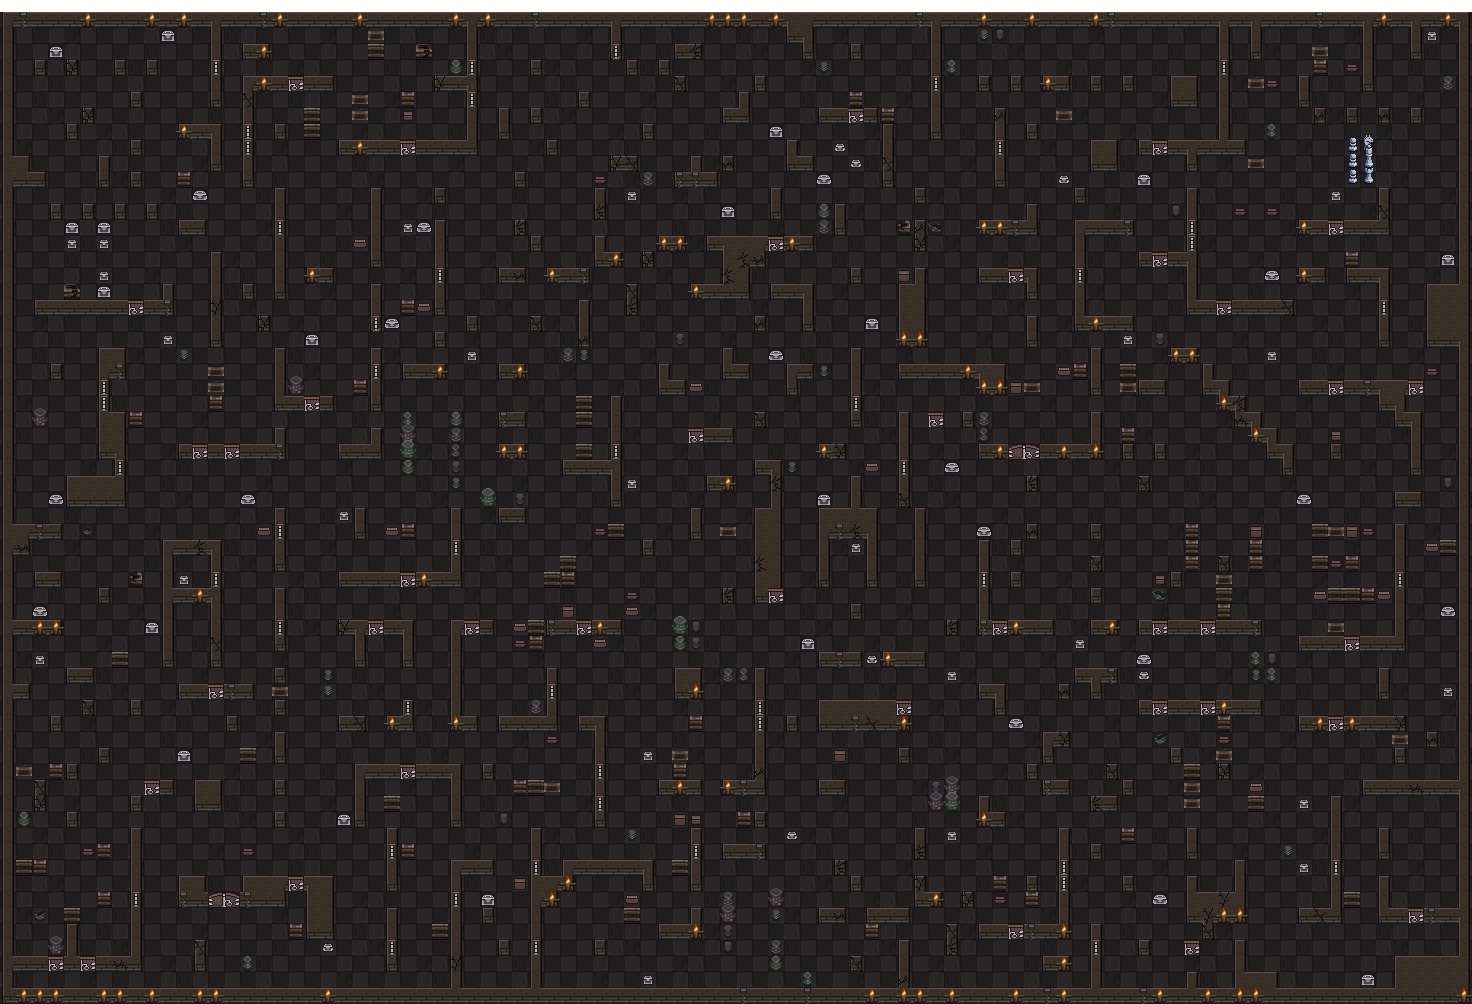
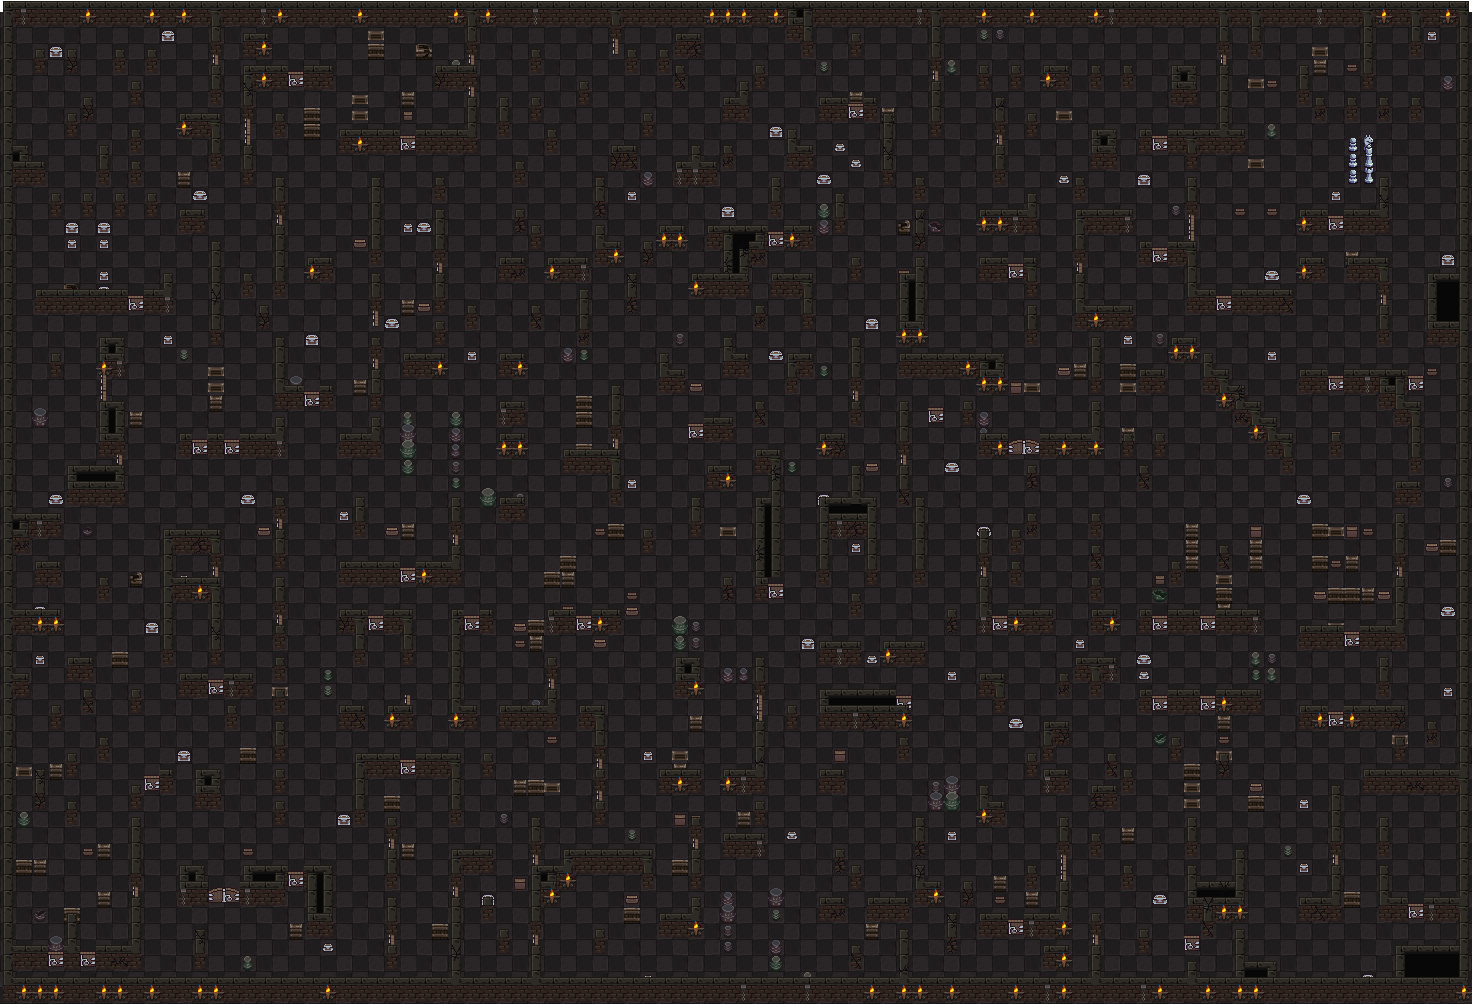
Tall walls, second round: masses fade to black, the edge-on leaf one tile again
The designer on the first build's walk screen: "Roofs on clusters of
walls look kinda odd. Either we should make it fade to black, or
smooth it out. Also, vertical doors look weird in several ways. They
look like they connect all the way at the top of the wall, unlike the
forward facing doors. And it looks super weird when you break the
lower door of a double door set, there's no visible side edge of the
door like you'd expect."

A MASS FADES TO BLACK. The first build's roofOf drew every cell by the
same profiles, so a thick wall tiled the band and the rungs over every
interior cell. The pack never draws a thick wall's top: its frame is a
bevelled rim around a black void, and that is what a mass is now.
roofOf takes `mass` (the cell has a diagonal set, so it sits in a 2x2
block) and, for a pixel thick both ways, lays the nearest rim by depth
from the open edge: the far edge the band's seven rows; the near edge
over the face the band and its row of fill (a thin wall's roof
exactly); the west and east edges a thin vertical band exactly, ten
columns, lit down the west side as the thin band is - so a thin wall
joining a mass runs into its rim without a seam; the side rims cast on
the roof minus the rows the face hides, so a rim runs up to a face
stub's top at an inner corner; a lone band entering from the north
runs its rungs over the far rim to the void, one leaving south starts
from the void; inside, the pack's two rows of shade under the far rim
[…]

diff --git a/play/README.md b/play/README.md
@@ -2172,7 +2172,7 @@ pixels and build it".
 THE BUILD. `js/board-ui.mjs` carries the geometry: `WALL_BAND` (columns
 3–12), `WALL_LIFT` 8 (the roof plane, one tile deep, shifted north),
 `WALL_RAISE` 3 (the face off its seam), `WALL_SPRITE_H` 24, `DOOR_LIFT`
-5 (a face-on leaf two pixels above the face's foot), `EDGE_LEAF_H` 27,
+5 (a leaf, face-on or edge-on, two pixels above the face's foot),
 `wallBody(mask)` (the shipped blob footprint of round 5: an east–west run
 the width, a north–south run the band, corners, T's and crosses their
 union, a thick block's inner corner only with its diagonal) and
@@ -2199,9 +2199,9 @@ cracks and takes its walls and ruins from the crypt row, so they
 regenerate without the pack. The doorway post tiles (`doorway`,
 `doorway-8`, `doorway-2`) are gone: an opened doorway is a gap and the
 walls beside it end with their own cases (`#gapUp` is any doorway).
-`door-edge` is a 16×32 box: the designer's 5×16 leaf stretched to 27
-rows by repeating its board period (`inhouse.mjs edgeLeafRows` — its head
-and foot as drawn), standing on the box's bottom edge.
+`door-edge` is the designer's 5×16 leaf as drawn, one tile tall, in the
+band's middle (`inhouse.mjs profileDoor`; the first build stretched it
+to 27 rows — the second round, below, put it back).
 
 THE CANVAS BOARD paints walls, cracked walls, weak spots and ruins in
 THE TALL PASS, at the square's y − 11 — the roof over the feet of
@@ -2211,21 +2211,80 @@ where a band runs on (the crack is the tell that a wall is weakened; a
 band mid-run has no face), the cracking flash over the whole sprite, the
 whole sprite bursting on a breach, a ruin's stub with the square's
 debris put back over its foot, a wall prop (torch / banner / chain) on
-the face, and the residue and heat frames over the sprite; a face-on
-leaf at y − 5, the edge-on leaf at y − 24 (its head at the far face's
-top, its foot behind the near roof); the options legend shows the face
-under the roof's last rows. Gates green on the build: `test-debris` 71
-(the boxes, the classic row's own cases, the leaf's stretched shape and
-the hall's row for row, no doorway role), `strip-ruin-chips --check`
+the face, and the residue and heat frames over the sprite; either leaf
+at y − 5 — a door stands at its own square's depth, face-on or edge-on
+(the edge-on leaf's head meets the far face's bottom, the near wall's
+roof covers of its foot what it covers of anything); the options legend
+shows the face under the roof's last rows. Gates green on the build:
+`test-debris` 70 (the boxes, the classic row's own cases, the leaf's
+exact shape and the hall's byte for byte, no doorway role), `strip-ruin-chips --check`
 (reads the whole sprite, row 15 attached — a south tongue runs into the
 neighbour's roof), selftest 46/46, ui-smoke 270 (a cracked band mid-run
 wears its ink on the roof), facing-walk 108/108, replay-smoke 63,
 test-camera 80, test-world 125, test-barrier 160, test-logreport 47,
 canvas-grid `none` / `margin` 4/4 in Chromium; the camera guard's dump
 self-check drifts from ply 2 exactly as on the build before (on record)
-and a fresh baseline was dumped. THE PHONE VERDICT IS THE GATE; the
-hall's, the castle's and the classic set's palettes are first picks for
-the designer to retune.
+and a fresh baseline was dumped. The hall's, the castle's and the
+classic set's palettes are first picks for the designer to retune.
+
+THE SECOND ROUND, the same day. The designer, on two screenshots of the
+build's walk screen: "Roofs on clusters of walls look kinda odd. Either
+we should make it fade to black, or smooth it out. Also, vertical doors
+look weird in several ways. They look like they connect all the way at
+the top of the wall, unlike the forward facing doors. And it looks super
+weird when you break the lower door of a double door set, there's no
+visible side edge of the door like you'd expect." Two fixes, built the
+same day. (1) A MASS FADES TO BLACK. The first build's `roofOf` drew
+every cell by the same profiles, so a thick wall tiled the band and the
+rungs over every interior cell — a lattice of ledges. The pack itself
+never draws a thick wall's top: its frame is a bevelled RIM around a
+BLACK VOID (the band, two rows of shade, then black), and that is what
+a mass is now. `roofOf` takes `mass` (the cell has a diagonal set, so
+it sits in a 2×2 block of walls) and, for a pixel that is thick both
+ways (a run longer than a cell across AND along — a T of thin walls in
+a mass cell keeps its band), lays the nearest RIM by depth from the
+open edge: the far edge the band's seven rows; the near edge, over the
+face, the band and its row of fill — exactly a thin wall's roof, so a
+thin east–west wall joining a mass runs into its near or far rim
+without a seam; the west and east edges exactly a thin vertical band,
+ten columns (outline, lit line, the seven stretched rungs, outline —
+lit on the west side as the thin band is, so a thin vertical wall
+joining a mass continues into its side rim without a seam); the side
+rims are cast on the roof MINUS the eight rows the face hides, so at
+an inner corner of the void a side rim runs up to the face stub's top
+instead of stopping a square short; a lone band entering from the
+north runs its rungs over the far rim to the void, one leaving south
+starts from the void and runs on; everything else is the pack's shade
+for two rows under the far rim and then its black (`CRYPT.dusk` /
+`.black`, named per theme in `WALL_SWAPS` — the band's three black
+flecks, which the first build's swaps folded into the outline colour,
+now swap to the void's black on every theme, the one change to a thin
+tile outside the crypt; every thin case is byte-identical to the first
+build in the crypt's own colours). Ruins pass `mass` false and are
+untouched. (2) THE EDGE-ON LEAF IS ONE TILE AGAIN. The 27-row stretch
+reached from the far face's top to behind the near roof, which read as
+a door hung from the roof — "they look like they connect all the way at
+the top of the wall" — and when the lower leaf of a stacked double
+broke, the upper leaf's foot was the stretch's middle, no edge at all.
+`door-edge` is the designer's 5×16 file as drawn (`inhouse.mjs
+profileDoor`, `EDGE_LEAF_X` 5), a 16×16 tile like the face-on leaf,
+drawn by the canvas board at `DOOR_LIFT` like the face-on leaf: its head
+meets the far face's bottom (the face stands three pixels off its seam,
+the leaf rises five, so they overlap by two — the leaf enters the wall),
+its foot stands clear when the leaf below it is gone, and the near
+wall's roof covers of it what it covers of anything standing there.
+`edgeLeafRows`, `EDGE_LEAF_ROWS` and `EDGE_LEAF_H` are gone; test-debris
+asserts the tile's height, the file's exact shape on every theme and the
+hall's leaf byte for byte. The masses were judged on a scratch composer
+laying wall grids off the atlas the way the board paints them (a 4×3
+block, a 2-wide ring, an L of 2-wide walls, thin walls joining a 3×3
+block on all four sides, per theme) beside the same grids off the first
+build's atlas, and the doors on `s59`'s d8 and the g5–h5 double turned
+east-up with its lower leaf opened, at a dpr-3 phone's k 6. Gates
+green on the second round: `test-debris` 70, `strip-ruin-chips
+--check`, selftest 46/46, ui-smoke 280, facing-walk 108/108,
+replay-smoke 63, test-camera 80, test-world 125, test-logreport 47,
+canvas-grid `none` / `margin` 4/4 in Chromium.
 
 ## The debris layer (2026-09-07)
 

diff --git a/dungeon-crawler-king-prototype-brief.md b/dungeon-crawler-king-prototype-brief.md
@@ -544,7 +544,7 @@ Cheap fairyground / ffish.js checks. All load-bearing — do these before buildi
 
 - Player overworld movement rules; speed parity with hunters; blob deformation/reformation rules (how the marching pattern squeezes through crawlspaces and reforms). `[2026-09-07: the one rule in §5.1 is the proposal on record; open inside it — whether rotation costs a turn, whether the king may make an individual move, how tapping a target works at exploration scale (tap the piece, snap-zoom to the duel scale for the target pick is the proposal), and a rotated army walking a 2-wide passage sideways in formation.]` `[2026-09-08, milestone 4b built the rule: a rotation COSTS A MOVE, the king makes no individual move, a tapped piece snap-zooms to at least k 6 for the target pick; the sideways 2-wide passage is what the fixture's crawlspace is for.]` `[2026-09-09, THE CONTROLS AND CAMERA SESSION — RESOLVED by the eighteen rulings in §5.1: the anchor is the formation's front-centre, the facing follows the d-pad, turns pivot and walks walk with catch-up, the army always fits the box and a stuck piece is teleported, manual moves are chess moves only, the king moves by his own chess move with the army following, no snap-zoom, pinch and drag on the map. Still open inside it: the pace (Pokémon walks at about a quarter second a tile, runs at half that; the phone decides), and whether a tap-to-turn should be free (built as a move).]`
 
-- Edge-on doors (§10 Phase 2): a door in a wall that runs up the screen after the camera turns needs art of its own per theme; the weak-spot rule (a door in a north–south line reads as cracked stone) cannot survive a rotating camera, since the same door would flip between a leaf and a crack. `[2026-09-08, the camera milestone: the weak-spot rule for doors is RETIRED — every door is a door, drawn as the leaf when its wall line runs across the screen and as a GENERATED PLACEHOLDER when it runs up it (the wall's band with the leaf as a thin slab in the leaf's own two tones and a post above and below in the doorway's post tones; a double edge-on is two such tiles, the brief's "two-tall pair"; an opened north–south doorway is the doorway tile turned a quarter, its posts above and below). Still open: per-theme edge-on ART to replace the placeholder — the designer's call on the first build.]` `[RESOLVED 2026-09-11 — THE DESIGNER'S OWN SPRITE ("Use this one"): a 5×16 side-view door in pixel-poem's timber (phase0/lib/inhouse/door-profile.png), recoloured per theme exactly as the face-on leaf is, standing in the gap it is — the walls above and below end with their own autotile end cases, the brick face on a south end, since a door or a doorway whose line runs up the screen is not solid for the wall masks around it (canvas-board #wallMask, in screen space) — and drawn as furniture in the tall pass; opened, the gap between the same two wall ends remains; the door set option swaps the leaf, the posts stay the wall's; the generated slab and the quarter-turned doorway are gone — CLAUDE.md § "The edge-on door", play/README.md § "Art themes", round 20.]` `[2026-09-12, TALL WALLS: every wall is a 16×24 sprite in the tall pass — the Catacombs frame's north band as its roof, eight rows of it standing over the square north, the pack's brick face on the square three pixels off its seam; the hall, the castle and the classic set wear the same drawing as palette swaps; the edge-on leaf is 27 rows, the far face's top to behind the near roof; a face-on leaf stands two pixels above the face's foot with no roof over it; the east–west doorway's generated posts are retired too — every opened doorway is a gap the walls end at — CLAUDE.md § "Tall walls", play/README.md § "Art themes", round 21.]`
+- Edge-on doors (§10 Phase 2): a door in a wall that runs up the screen after the camera turns needs art of its own per theme; the weak-spot rule (a door in a north–south line reads as cracked stone) cannot survive a rotating camera, since the same door would flip between a leaf and a crack. `[2026-09-08, the camera milestone: the weak-spot rule for doors is RETIRED — every door is a door, drawn as the leaf when its wall line runs across the screen and as a GENERATED PLACEHOLDER when it runs up it (the wall's band with the leaf as a thin slab in the leaf's own two tones and a post above and below in the doorway's post tones; a double edge-on is two such tiles, the brief's "two-tall pair"; an opened north–south doorway is the doorway tile turned a quarter, its posts above and below). Still open: per-theme edge-on ART to replace the placeholder — the designer's call on the first build.]` `[RESOLVED 2026-09-11 — THE DESIGNER'S OWN SPRITE ("Use this one"): a 5×16 side-view door in pixel-poem's timber (phase0/lib/inhouse/door-profile.png), recoloured per theme exactly as the face-on leaf is, standing in the gap it is — the walls above and below end with their own autotile end cases, the brick face on a south end, since a door or a doorway whose line runs up the screen is not solid for the wall masks around it (canvas-board #wallMask, in screen space) — and drawn as furniture in the tall pass; opened, the gap between the same two wall ends remains; the door set option swaps the leaf, the posts stay the wall's; the generated slab and the quarter-turned doorway are gone — CLAUDE.md § "The edge-on door", play/README.md § "Art themes", round 20.]` `[2026-09-12, TALL WALLS: every wall is a 16×24 sprite in the tall pass — the Catacombs frame's north band as its roof, eight rows of it standing over the square north, the pack's brick face on the square three pixels off its seam; the hall, the castle and the classic set wear the same drawing as palette swaps; either leaf stands two pixels above the face's foot, at its own square's depth, no roof over a face-on one (the edge-on leaf was stretched to 27 rows on the first build, the far face's top to behind the near roof, and read as a door hung from the roof with no foot to show when the lower half of a stacked double broke — the second round the same day put the designer's tile back as drawn); a thick wall's top is the pack's own frame since that round, a bevelled rim around a black void, where the first build tiled the band over every cell; the east–west doorway's generated posts are retired too — every opened doorway is a gap the walls end at — CLAUDE.md § "Tall walls", play/README.md § "Art themes", round 21.]`
 - Facing & flanking: v1 auto-faces both armies at duel start; how rear/side ambushes should degrade the stamped formation is deferred, as is the marching-pattern edit-lock rule (proposal on record: editing locks while any enemy holds LOS/HUNT on you).
 - LOS range cap and occlusion rules. `[2026-09-08 proposal: no cap, no fog, crates block — pending.]`
 - The trigger's far row (§5.3 as rewritten 2026-09-08): the enemy king anywhere on it (the band) or on the player's file (4c's strict rule) — read as the band, unconfirmed. `[CONFIRMED 2026-09-10 (any file of the far row) and WIDENED 2026-09-11 to THE FAR HALF (any row 5 to 9, §5.3) — closed.]`

diff --git a/CLAUDE.md b/CLAUDE.md
@@ -1149,7 +1149,7 @@ stray dashes on a vertical band's end cap were the horizontal band's own
 crack marks — a band's ends wear only the outline and lit line, and its
 rungs run on through a T. THE BUILD: `board-ui.mjs` carries the geometry
 (`WALL_BAND` 3–12, `WALL_LIFT` 8, `WALL_RAISE` 3, `WALL_SPRITE_H` 24,
-`DOOR_LIFT` 5, `EDGE_LEAF_H` 27, `wallBody` — the shipped blob footprint
+`DOOR_LIFT` 5, `wallBody` — the shipped blob footprint
 — and `wallFaceCols`); the repack tool composes every case from TWO
 Catacombs tiles, the frame's north band (5,3) and the brick face (5,9) —
 a 16×24 sprite: rows 0–7 the roof's far half, rows 8–23 the face where
@@ -1163,20 +1163,21 @@ and up to two of fringe), the face under a west/east tongue, six rows of
 it as a low stump under a north tongue; the hall, the castle and the
 classic set are EXACT PALETTE SWAPS (`WALL_SWAPS`: every colour of the
 crypt's drawing named — the tool refuses an unnamed one); the doorway
-post tiles are gone; `door-edge` is a 16×32 box, the designer's leaf
-stretched to 27 rows by repeating its board period (inhouse.mjs
-`edgeLeafRows`). The canvas board paints walls, cracked walls, weak spots
+post tiles are gone; `door-edge` is the designer's leaf as drawn, one
+tile tall (inhouse.mjs `profileDoor`; a 27-row stretch went before it —
+the second round, below). The canvas board paints walls, cracked walls, weak spots
 and ruins IN THE TALL PASS at the square's y − 11 (the roof over the
 feet of whatever stands north, as a nearer head covers the piece behind
 it; the crack masked onto the face where there is one and onto the roof
 where a band runs on, since the crack is the tell; a ruin's stub with
 the square's debris put back over its foot; a wall prop on the face; the
-residue and heat frames over the sprite), a face-on leaf at y − 5, the
-edge-on leaf at y − 24, and an opened doorway as floor and nothing else
+residue and heat frames over the sprite), either leaf at y − 5 (a door
+stands at its own square's depth, face-on or edge-on), and an opened
+doorway as floor and nothing else
 (`#gapUp` is any doorway now — the walls beside it end with their own
 cases); the options legend shows the face under the roof's last rows.
-Gates green on the build: test-debris 71 (the boxes, the classic row's
-own cases, the leaf's stretched shape and the hall's row for row, no
+Gates green on the build: test-debris 70 (the boxes, the classic row's
+own cases, the leaf's exact shape and the hall's byte for byte, no
 doorway role), strip-ruin-chips (reads the 16×24 sprite, row 15 attached
 — a south tongue runs into the neighbour's roof), selftest 46/46,
 ui-smoke 270, facing-walk 108/108, replay-smoke 63, test-camera 80,
@@ -1187,8 +1188,40 @@ the build before — the pre-existing gap on record — and a fresh baseline
 was dumped for the next change. The uploaded packs sit under
 `phase0/assets-src/` (gitignored); the tool reproduced the previous atlas
 byte for byte from them before this change, so they are the versions the
-atlas was built from. THE PHONE VERDICT IS THE GATE; the other themes'
-palettes are the designer's to retune.**
+atlas was built from; the other themes' palettes are the designer's to
+retune. THE SECOND ROUND, the same day (designer, two screenshots of the
+build's walk screen: "Roofs on clusters of walls look kinda odd. Either
+we should make it fade to black, or smooth it out. Also, vertical doors
+look weird in several ways. They look like they connect all the way at
+the top of the wall, unlike the forward facing doors. And it looks super
+weird when you break the lower door of a double door set, there's no
+visible side edge of the door like you'd expect"), BUILT the same day:
+(1) A MASS FADES TO BLACK — the first build tiled the band over every
+cell of a thick wall (a lattice of ledges); a cell in a 2×2 block of
+walls is now the pack's own thick wall, A RIM AROUND A VOID (`roofOf`,
+`mass`: a pixel thick both ways in a cell with a diagonal set): the far
+edge the band, the near edge over the face the band and its row of fill
+(a thin wall's roof exactly), the west and east edges a thin vertical
+band exactly (outline, lit line, the rungs, outline — so a thin wall
+joining a mass runs into its rim without a seam, and a side rim runs up
+to a face stub's top at an inner corner), inside the pack's two rows of
+shade under the far rim and then its BLACK (`dusk` / `black` per theme
+in `WALL_SWAPS`; the band's three black flecks, folded into the outline
+on the first build, swap to the void's black now); a lone band entering
+from the north runs its rungs over the far rim to the void, one leaving
+south starts from the void; every thin-wall case is byte-identical to
+the first build in the crypt's own colours. (2) THE EDGE-ON LEAF IS ONE
+TILE AGAIN — the designer's 5×16 file as drawn, at `DOOR_LIFT` like a
+face-on leaf (the 27-row stretch hung the door from the far wall's roof,
+and a broken lower half of a stacked double left the upper leaf without
+a foot): its head meets the far face's bottom, its foot stands clear
+when the leaf below it is gone, the near wall's roof covers of it what
+it covers of anything. Judged on a scratch composer laying wall grids
+off the atlas beside the same grids off the first build's, and on
+`s59`'s door crops with the double's lower leaf opened. Gates green:
+test-debris 70, strip-ruin-chips, selftest 46/46, ui-smoke 280,
+facing-walk 108/108, replay-smoke 63, test-camera 80, test-world 125,
+test-logreport 47, canvas-grid `none` / `margin` 4/4 in Chromium.**
 
 **HANDOFF (end of 2026-09-08, after milestone 3 — HISTORY, kept for the
 reasoning; 4a, 4b and 4c are built above): NEXT WAS THE WORLD +
